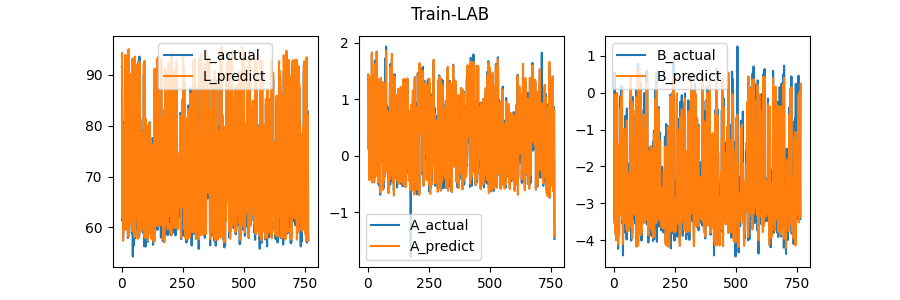
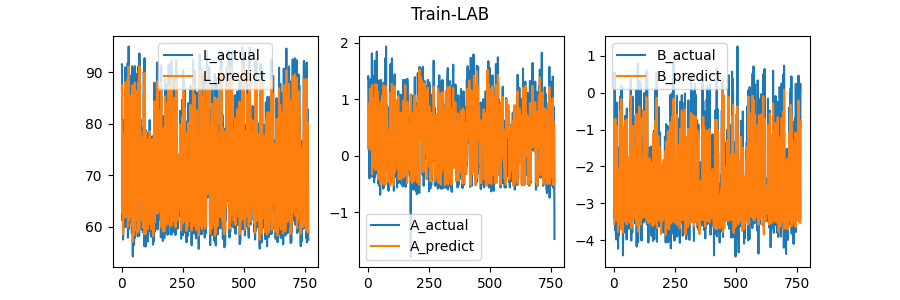
增加记录只有实际数据的图

diff --git a/result.py b/result.py
@@ -36,9 +36,9 @@ class Result:
         self.a_predict_list.append(predict.A)
         self.b_predict_list.append(predict.B)
 
-        self.l_actual_list.append(actual[0] * 100)
+        self.l_actual_list.append(actual[0])
         self.a_actual_list.append(actual[1])
-        self.b_actual_list.append(actual[2] * 10)
+        self.b_actual_list.append(actual[2])
 
         cnt = len(self.x_list) + 1
         self.x_list.append(cnt)
@@ -47,22 +47,29 @@ class Result:
     def get_cnt(self):
         return len(self.x_list) + 1
 
-    def save(self):
+    def __save_figure(self, name, flag):
         # 绘图
         fig, axs = plt.subplots(1, 3, figsize=(9, 3))
 
         axs[0].plot(self.x_list, self.l_actual_list, label='L_actual')
-        axs[0].plot(self.x_list, self.l_predict_list, label='L_predict')
-        axs[0].legend()
-
         axs[1].plot(self.x_list, self.a_actual_list, label='A_actual')
-        axs[1].plot(self.x_list, self.a_predict_list, label='A_predict')
-        axs[1].legend()
-
         axs[2].plot(self.x_list, self.b_actual_list, label='B_actual')
-        axs[2].plot(self.x_list, self.b_predict_list, label='B_predict')
+
+        if flag:
+            axs[1].plot(self.x_list, self.a_predict_list, label='A_predict')
+            axs[0].plot(self.x_list, self.l_predict_list, label='L_predict')
+            axs[2].plot(self.x_list, self.b_predict_list, label='B_predict')
+
+        axs[0].legend()
+        axs[1].legend()
         axs[2].legend()
 
-        fig.suptitle('%s-LAB' % self.name)
-        plt.savefig(os.path.join(config.ABSPATH, 'result/%s-lab.png' % self.name))
+        fig.suptitle('%s-LAB' % name)
+        plt.savefig(os.path.join(config.ABSPATH, 'result/%s-lab.png' % name))
         plt.show()
+
+    def save(self):
+        # 预测和实际重叠
+        self.__save_figure(self.name, True)
+        # 仅实际
+        self.__save_figure(self.name + '-actual', False)

diff --git a/evolution_test.py b/evolution_test.py
@@ -11,27 +11,33 @@ from result import Result
 from share_data import ShareData
 
 
-def test(inputY, __result: Result):
+def test_each(inputY, __result: Result):
     target_lab = torch.Tensor(inputY)  # 目标LAB值
     ga = GA()
     predict = ga.predict(target_lab)
     __result.add_plot(predict, inputY)
 
 
-if __name__ == '__main__':
-    torch.multiprocessing.set_start_method('forkserver', force=True)
+def test(name, dataSetY: torch.Tensor):
     config = Config()
-    # 多线程执行
     with Manager() as manager:
         share = ShareData(manager)
         pool = Pool(config.EVOLUTION_MAX_PROC)
-        result = Result(name='evolution', share=share)
+        result = Result(name=name, share=share)
         with Progress() as progress:
-            task = progress.add_task('Evolution', total=DataSet().standby.Y.shape[0])
+            task = progress.add_task(name, total=dataSetY.shape[0])
 
             for y in DataSet().standby.Y:
-                pool.apply_async(test, args=(y, result,), callback=lambda x: progress.advance(task))
+                pool.apply_async(test_each, args=(y, result,), callback=lambda x: progress.advance(task))
             pool.close()
             pool.join()
 
         result.save()
+
+
+if __name__ == '__main__':
+    torch.multiprocessing.set_start_method('forkserver', force=True)
+    dataset = DataSet()
+    test('evolution-standby', dataset.standby.Y)
+    test('evolution-train', dataset.train.Y)
+    test('evolution-valid', dataset.valid.Y)

diff --git a/net_test.py b/net_test.py
@@ -20,9 +20,9 @@ def test(_model, to_predict, actual, name):
     for row in actual:
         predict = predicts[cnt]
         cnt += 1
-        result.add_plot(predict=Predicted(L=predict[0].item() * 100,
+        result.add_plot(predict=Predicted(L=predict[0].item(),
                                           A=predict[1].item(),
-                                          B=predict[2].item() * 10),
+                                          B=predict[2].item()),
                         actual=row)
 
     # 绘图
